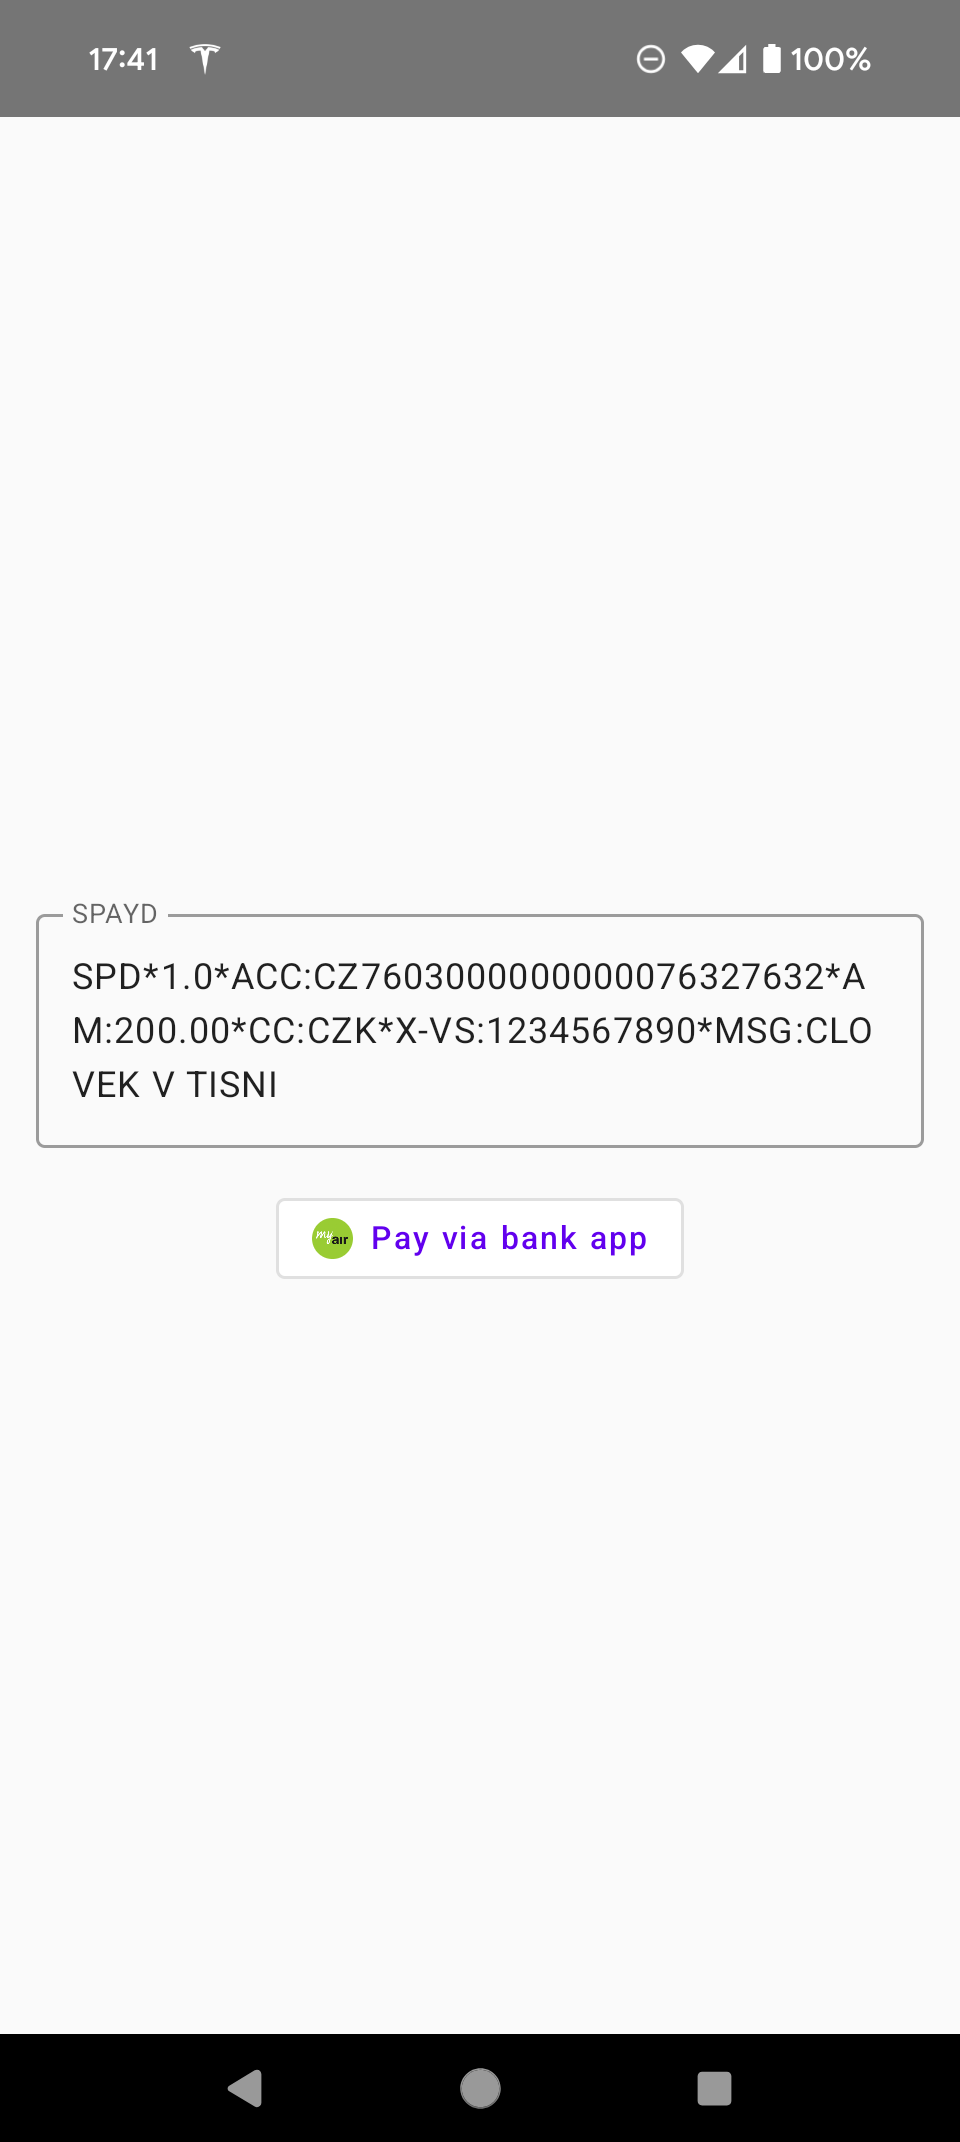
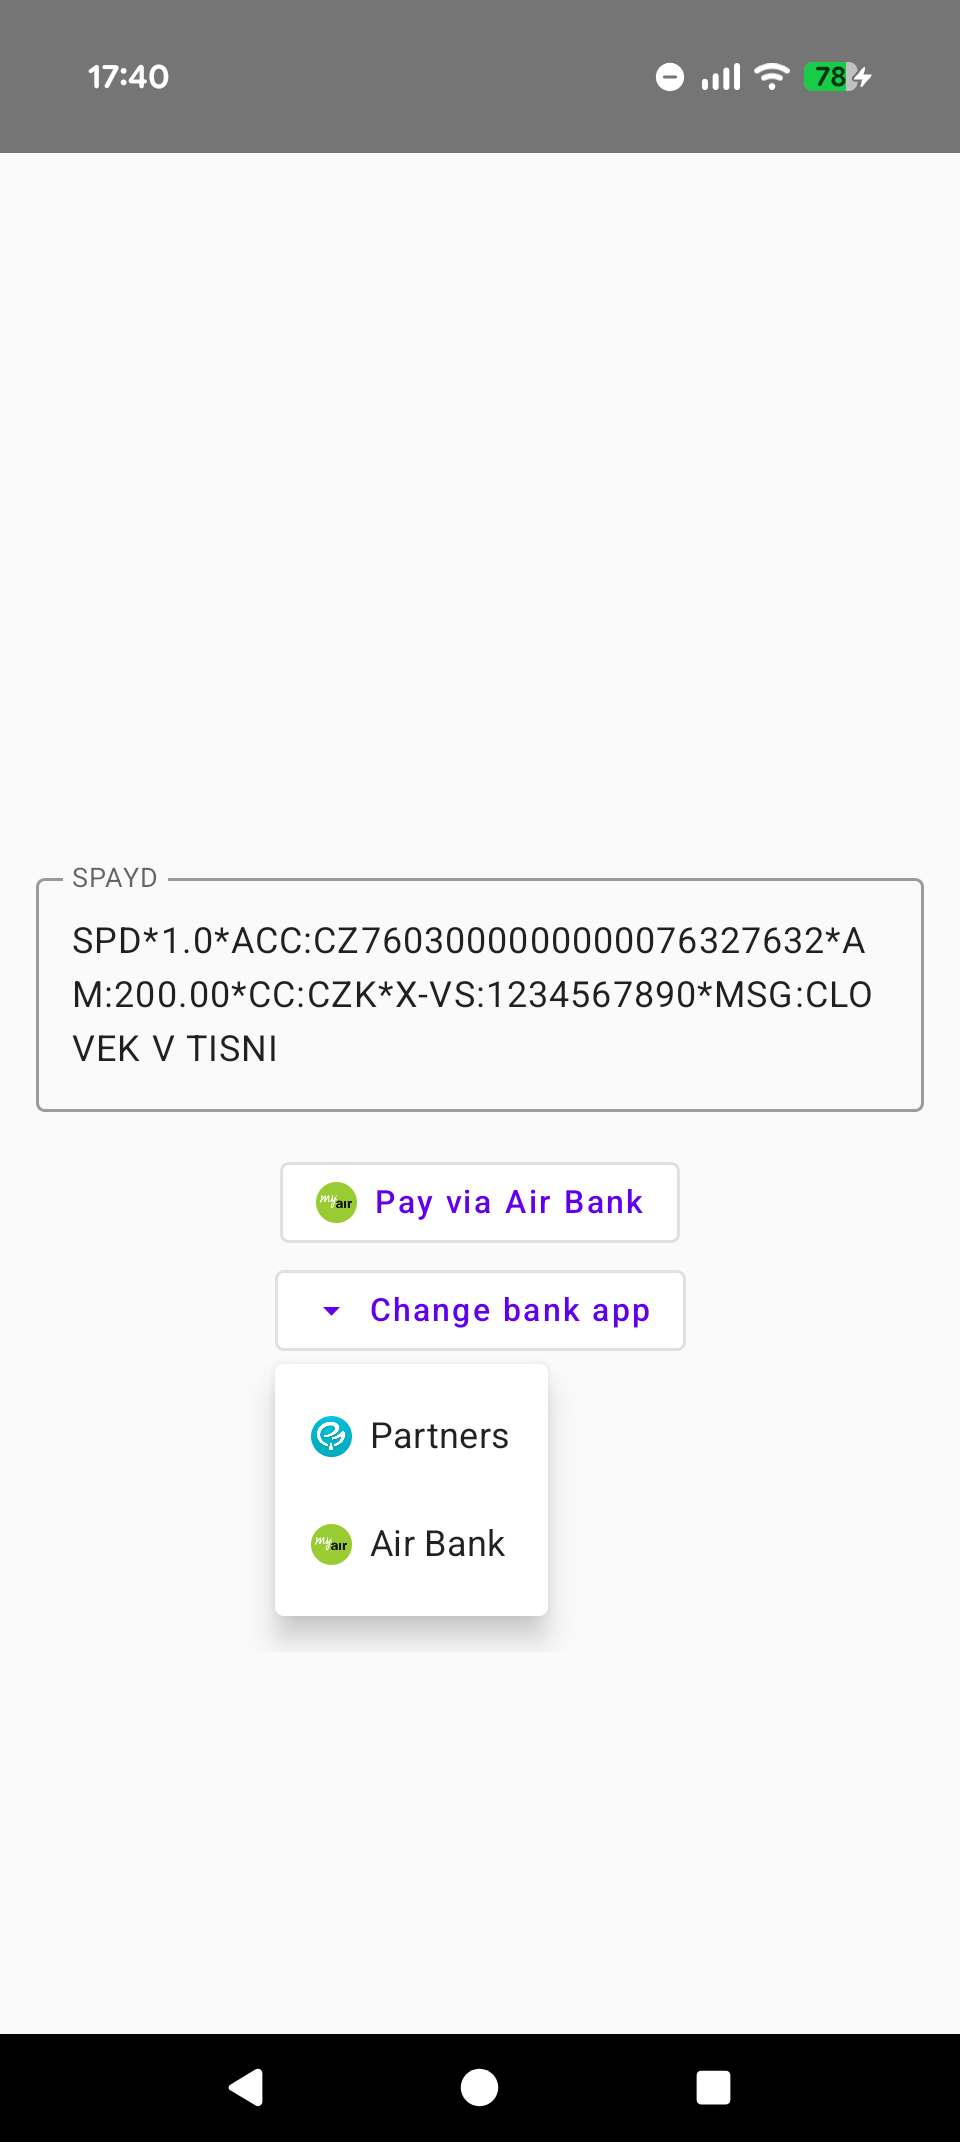
Bank chooser (#3)
* Bank chooser

* Fix import error, update docs

diff --git a/androidApp/src/androidMain/kotlin/io/stepuplabs/pvba/Screen.kt b/androidApp/src/androidMain/kotlin/io/stepuplabs/pvba/Screen.kt
@@ -2,6 +2,7 @@ package io.stepuplabs.pvba
 
 import android.app.Activity
 import android.widget.Toast
+import androidx.compose.foundation.layout.Box
 import androidx.compose.foundation.layout.Column
 import androidx.compose.foundation.layout.Row
 import androidx.compose.foundation.layout.Spacer
@@ -10,11 +11,15 @@ import androidx.compose.foundation.layout.fillMaxWidth
 import androidx.compose.foundation.layout.padding
 import androidx.compose.foundation.layout.size
 import androidx.compose.material.ButtonDefaults
+import androidx.compose.material.DropdownMenu
+import androidx.compose.material.DropdownMenuItem
 import androidx.compose.material.Icon
 import androidx.compose.material.MaterialTheme
 import androidx.compose.material.OutlinedButton
 import androidx.compose.material.OutlinedTextField
 import androidx.compose.material.Text
+import androidx.compose.material.icons.Icons
+import androidx.compose.material.icons.filled.ArrowDropDown
 import androidx.compose.runtime.Composable
 import androidx.compose.runtime.getValue
 import androidx.compose.runtime.mutableStateOf
@@ -47,35 +52,87 @@ fun Screen(payViaBankAppResolver: SpaydPayViaBankAppResolver) {
                         label = { Text("SPAYD") },
                         modifier = Modifier.padding(16.dp)
                     )
+                    val supportedBankApps =
+                        remember { payViaBankAppResolver.getSupportedBankApps() }
+                    var selectedBankApp by remember { mutableStateOf(supportedBankApps.first()) }
+
                     OutlinedButton(onClick = {
                         val result = payViaBankAppResolver.payViaBankApp(
                             spayd,
-                            NavigationParameters(WeakReference(context as Activity))
+                            NavigationParameters(
+                                WeakReference(context as Activity),
+                                selectedBankApp.packageName
+                            ),
                         )
                         if (result.isSuccess) {
-                            Toast.makeText(context, "Bank app opened successfully", Toast.LENGTH_LONG).show()
+                            Toast.makeText(
+                                context,
+                                "Bank app opened successfully",
+                                Toast.LENGTH_LONG
+                            ).show()
                         } else {
                             when {
                                 result.exceptionOrNull() is BankAppOpeningException -> {
-                                    Toast.makeText(context, "Error when opening bank app", Toast.LENGTH_LONG).show()
+                                    Toast.makeText(
+                                        context,
+                                        "Error when opening bank app",
+                                        Toast.LENGTH_LONG
+                                    ).show()
                                 }
+
                                 result.exceptionOrNull() is QrCodeFileException -> {
-                                    Toast.makeText(context, "Error when creating QR code file", Toast.LENGTH_LONG).show()
+                                    Toast.makeText(
+                                        context,
+                                        "Error when creating QR code file",
+                                        Toast.LENGTH_LONG
+                                    ).show()
                                 }
                             }
                         }
                     }) {
-                        val bankAppIcon = payViaBankAppResolver.getSupportedBankAppIcon()
-                        if (bankAppIcon != null) {
-                            Icon(
-                                painter = rememberDrawablePainter(bankAppIcon),
-                                contentDescription = null,
-                                modifier = Modifier.size(ButtonDefaults.IconSize),
-                                tint = Color.Unspecified
-                            )
-                            Spacer(modifier = Modifier.size(ButtonDefaults.IconSpacing))
+                        Icon(
+                            painter = rememberDrawablePainter(selectedBankApp.icon),
+                            contentDescription = null,
+                            modifier = Modifier.size(ButtonDefaults.IconSize),
+                            tint = Color.Unspecified
+                        )
+                        Spacer(modifier = Modifier.size(ButtonDefaults.IconSpacing))
+                        Text("Pay via " + selectedBankApp.name)
+                    }
+
+                    if (supportedBankApps.size > 1) {
+                        var expanded by remember { mutableStateOf(false) }
+                        Box {
+                            OutlinedButton(onClick = { expanded = true }) {
+                                Icon(
+                                    Icons.Default.ArrowDropDown,
+                                    modifier = Modifier.size(ButtonDefaults.IconSize),
+                                    contentDescription = null
+                                )
+                                Spacer(modifier = Modifier.size(ButtonDefaults.IconSpacing))
+                                Text("Change bank app")
+                            }
+                            DropdownMenu(
+                                expanded = expanded,
+                                onDismissRequest = { expanded = false }
+                            ) {
+                                supportedBankApps.forEach { bankApp ->
+                                    DropdownMenuItem(onClick = {
+                                        selectedBankApp = bankApp
+                                        expanded = false
+                                    }) {
+                                        Icon(
+                                            painter = rememberDrawablePainter(bankApp.icon),
+                                            contentDescription = null,
+                                            modifier = Modifier.size(ButtonDefaults.IconSize),
+                                            tint = Color.Unspecified
+                                        )
+                                        Spacer(modifier = Modifier.size(ButtonDefaults.IconSpacing))
+                                        Text(bankApp.name)
+                                    }
+                                }
+                            }
                         }
-                        Text("Pay via bank app")
                     }
                 } else {
                     Text("No bank app supporting SPAYD found")

diff --git a/shared/src/androidMain/kotlin/io/stepuplabs/pvba/SpaydBankAppPaymentResolver.android.kt b/shared/src/androidMain/kotlin/io/stepuplabs/pvba/SpaydBankAppPaymentResolver.android.kt
@@ -35,17 +35,18 @@ actual class SpaydPayViaBankAppResolver(
     }
 
     /**
-     * When there is just one bank app supporting bank app payment, this returns the icon of that bank app.
+     * Shows a list of supported bank apps. You can build a bank app chooser inside your app.
+     * Or show just one on a button without a chooser.
      */
-    fun getSupportedBankAppIcon(): Drawable? {
-        val spaydReceivers = getSpaydReceivers()
-        val imageReceivers = getImageReceivers()
-        return if (spaydReceivers.size == 1 && imageReceivers.isEmpty()) {
-            application.packageManager.getApplicationIcon(spaydReceivers.first())
-        } else if (imageReceivers.size == 1 && spaydReceivers.isEmpty()) {
-            application.packageManager.getApplicationIcon(imageReceivers.first())
-        } else {
-            null
+    fun getSupportedBankApps(): List<SupportedBankApp> {
+        return (getSpaydReceivers() + getImageReceivers()).distinct().map {
+            SupportedBankApp(
+                it,
+                application.packageManager.getApplicationIcon(it),
+                application.packageManager.getApplicationLabel(
+                    application.packageManager.getApplicationInfo(it, 0)
+                ).toString()
+            )
         }
     }
 
@@ -94,8 +95,19 @@ actual class SpaydPayViaBankAppResolver(
             }
         }
 
+        val selectedIntent = if (navigationParams.selectedPackageName != null) {
+            spaydIntents().find { it.`package` == navigationParams.selectedPackageName }
+                ?: imageIntents(generateQrCodeUri(spayd)).find { it.`package` == navigationParams.selectedPackageName }
+        } else {
+            null
+        }
+
         try {
             when {
+                // bank is selected in a chooser, open it
+                selectedIntent != null -> {
+                    navigationParams.activityReference.get()?.startActivity(selectedIntent)
+                }
                 // only one spayd receiver, open straight away
                 spaydReceivers.size == 1 && imageReceivers.isEmpty() -> {
                     navigationParams.activityReference.get()?.startActivity(spaydIntents().first())
@@ -174,7 +186,8 @@ actual class SpaydPayViaBankAppResolver(
 
             FileSystem.SYSTEM.sink(path).use {
                 val outputStream = it.buffer().outputStream()
-                QRCode.ofSquares().withSize(30).withBackgroundColor(Color.WHITE).build(spayd).render().writeImage(outputStream)
+                QRCode.ofSquares().withSize(30).withBackgroundColor(Color.WHITE).build(spayd)
+                    .render().writeImage(outputStream)
                 outputStream.flush()
             }
 
@@ -191,18 +204,6 @@ actual class SpaydPayViaBankAppResolver(
     }
 
     companion object {
-        val DEFAULT_BANK_APP_PACKAGES = listOf(
-            "cz.rb.app.smartphonebanking", // Raiffeisenbank
-            "eu.inmite.prj.kb.mobilbank", // Komerční banka (old app)
-            "cz.kb.ndb", // Komerční banka (new app)
-            "cz.csas.georgego", // Česká spořitelna (George)
-            "cz.csob.smart", // ČSOB
-            "cz.moneta.smartbanka", // Moneta
-            "cz.fio.sb2", // Fio banka
-            "cz.airbank.android", // Air Bank
-            "cz.creditas.richee", // Banka CREDITAS
-            "cz.pbktechnology.partners.client" // Partners Banka
-        )
         private const val DIR = "qr"
         private const val FILE = "transfer-payment-qr.png"
     }
@@ -211,8 +212,19 @@ actual class SpaydPayViaBankAppResolver(
 
 /**
  * This class should contain any platform-specific parameters which the system needs to launch navigation to the bank app or show a chooser.
+ *
+ * @param activityReference Weak reference to activity to avoid memory leaks
+ * @param selectedPackageName If using bank chooser, set a package name of the selected bank
  */
-actual class NavigationParameters(val activityReference: WeakReference<Activity>)
+actual class NavigationParameters(
+    val activityReference: WeakReference<Activity>,
+    val selectedPackageName: String? = null
+)
+
+/**
+ * Information about supported bank app. Can be used in a bank app chooser.
+ */
+data class SupportedBankApp(val packageName: String, val icon: Drawable, val name: String)
 
 /**
  * This exception is returned when there is unexpected error when opening bank app Activity.

diff --git a/shared/src/androidMain/kotlin/io/stepuplabs/pvba/DefaultBankAppPackages.kt b/shared/src/androidMain/kotlin/io/stepuplabs/pvba/DefaultBankAppPackages.kt
@@ -1,0 +1,22 @@
+package io.stepuplabs.pvba
+
+/**
+ * This is a default list of tested and supported bank app package names.
+ * It's recommended to put this list into a remote configuration so you can update it without app update.
+ */
+val DEFAULT_BANK_APP_PACKAGES = listOf(
+    "cz.rb.app.smartphonebanking", // Raiffeisenbank
+    "eu.inmite.prj.kb.mobilbank", // Komerční banka (old app)
+    "cz.kb.ndb", // Komerční banka (new app)
+    "cz.csas.georgego", // Česká spořitelna (George)
+    "cz.csob.smart", // ČSOB
+    "cz.moneta.smartbanka", // Moneta
+    "cz.fio.sb2", // Fio banka
+    "cz.airbank.android", // Air Bank
+    "cz.creditas.richee", // Banka CREDITAS (old app)
+    "com.onebank", // Banka CREDITAS (new app)
+    "cz.pbktechnology.partners.client", // Partners Banka
+    "hr.asseco.android.jimba.mUCI.cz", // UniCredit Bank
+    "cz.mbank", // mBank
+    "com.jtfg.jtbank.prod" // J&T Banka
+)

diff --git a/README.md b/README.md
@@ -10,7 +10,7 @@ The library was created with a significant contribution from Alza.cz a.s. It's a
 
 ## Bank support
 
-Currently, we support only banks that accept the [SPAYD format](https://en.wikipedia.org/wiki/Short_Payment_Descriptor), known as "QR payment" in the Czech Republic. The list of tested bank apps can be found [here](shared/src/androidMain/kotlin/io/stepuplabs/pvba/SpaydBankAppPaymentResolver.android.kt#L195). We welcome pull requests about new bank support. Or open an issue if you found something about supported bank.
+Currently, we support only banks that accept the [SPAYD format](https://en.wikipedia.org/wiki/Short_Payment_Descriptor), known as "QR payment" in the Czech Republic. The list of tested bank apps can be found [here](shared/src/androidMain/kotlin/io/stepuplabs/pvba/DefaultBankAppPackages.kt). We welcome pull requests about new bank support. Or open an issue if you found something about supported bank.
 
 ## Integration
 
@@ -29,7 +29,7 @@ val payViaBankAppResolver = SpaydPayViaBankAppResolver(application, fileProvider
 where:
 - `application` is the Application context
 - `fileProviderAuthority` is the authority of your [file provider](https://developer.android.com/reference/androidx/core/content/FileProvider). If your app doesn't have one, create one similar to the [sample app](androidApp/src/androidMain).
-- `bankAppPackages` is the list of supported bank app package names. It uses [this list](shared/src/androidMain/kotlin/io/stepuplabs/pvba/SpaydBankAppPaymentResolver.android.kt#L191) as default, but it's optional. However, it's recommended to pass this list dynamically via some service like Firebase Remote Config. This way, you can turn the support on/off for a specific bank without updating the app.
+- `bankAppPackages` is the list of supported bank app package names. It uses [this list](shared/src/androidMain/kotlin/io/stepuplabs/pvba/DefaultBankAppPackages.kt) as default, but it's optional. However, it's recommended to pass this list dynamically via some service like Firebase Remote Config. This way, you can turn the support on/off for a specific bank without updating the app.
 
 #### Checking device support
 
@@ -39,15 +39,15 @@ payViaBankAppResolver.isPayViaBankAppSupported()
 
 This is `false` if the user doesn't have any supported bank app installed. It's recommended to hide the feature.
 
-#### Showing supported bank app icon
+#### Showing payment button
 
-You can get the icon of a supported bank app by calling:
+You can get the list of supported bank apps by calling:
 
 ```kotlin
-payViaBankAppResolver.getSupportedBankAppIcon()
+payViaBankAppResolver.getSupportedBankApps()
 ```
 
-It's recommended to show this icon on the payment button to improve UX. If this method returns null, show some fallback icon or no icon at all.
+It's recommended to show icon and name of the bank app on the payment button. If there are multiple supported bank apps, it's recommended to show the first one on the button but allow user to change bank app. It's recommended to have own bank app chooser instead of relying on system intent chooser.
 
 #### Initiating payment flow
 
@@ -57,7 +57,9 @@ val result = payViaBankAppResolver.payViaBankApp(spayd, navigationParams)
 
 where:
 - `spayd` is the string containing the payment information in a [SPAYD format](https://en.wikipedia.org/wiki/Short_Payment_Descriptor). We recommend [our library](https://github.com/step-up-labs/spayd-kmp) for generating SPAYD on Android,
-- `navigationParams` should contain a [WeakReference](https://developer.android.com/reference/java/lang/ref/WeakReference) of your Activity to avoid memory leaks,
+- `navigationParams` should contain:
+  - `activityReference`: a [WeakReference](https://developer.android.com/reference/java/lang/ref/WeakReference) of your Activity to avoid memory leaks.
+  - `selectedPackageName`: an optional selected package name of the bank app. If you don't pass it, the system chooser is shown.
 - `result` is a [Result class](https://kotlinlang.org/api/core/kotlin-stdlib/kotlin/-result/). If it's successful, the bank app has been successfully opened. Failure could be caused by two exceptions:
   - `BankAppOpeningException` is a problem with opening the bank app's Activity. You can get more details in the Exceptions' `cause`.
   - `QrCodeFileException` is a problem with providing the file via a file provider. It's likely caused by a bad file provider configuration. You can get more details in the Exceptions' `cause`.
